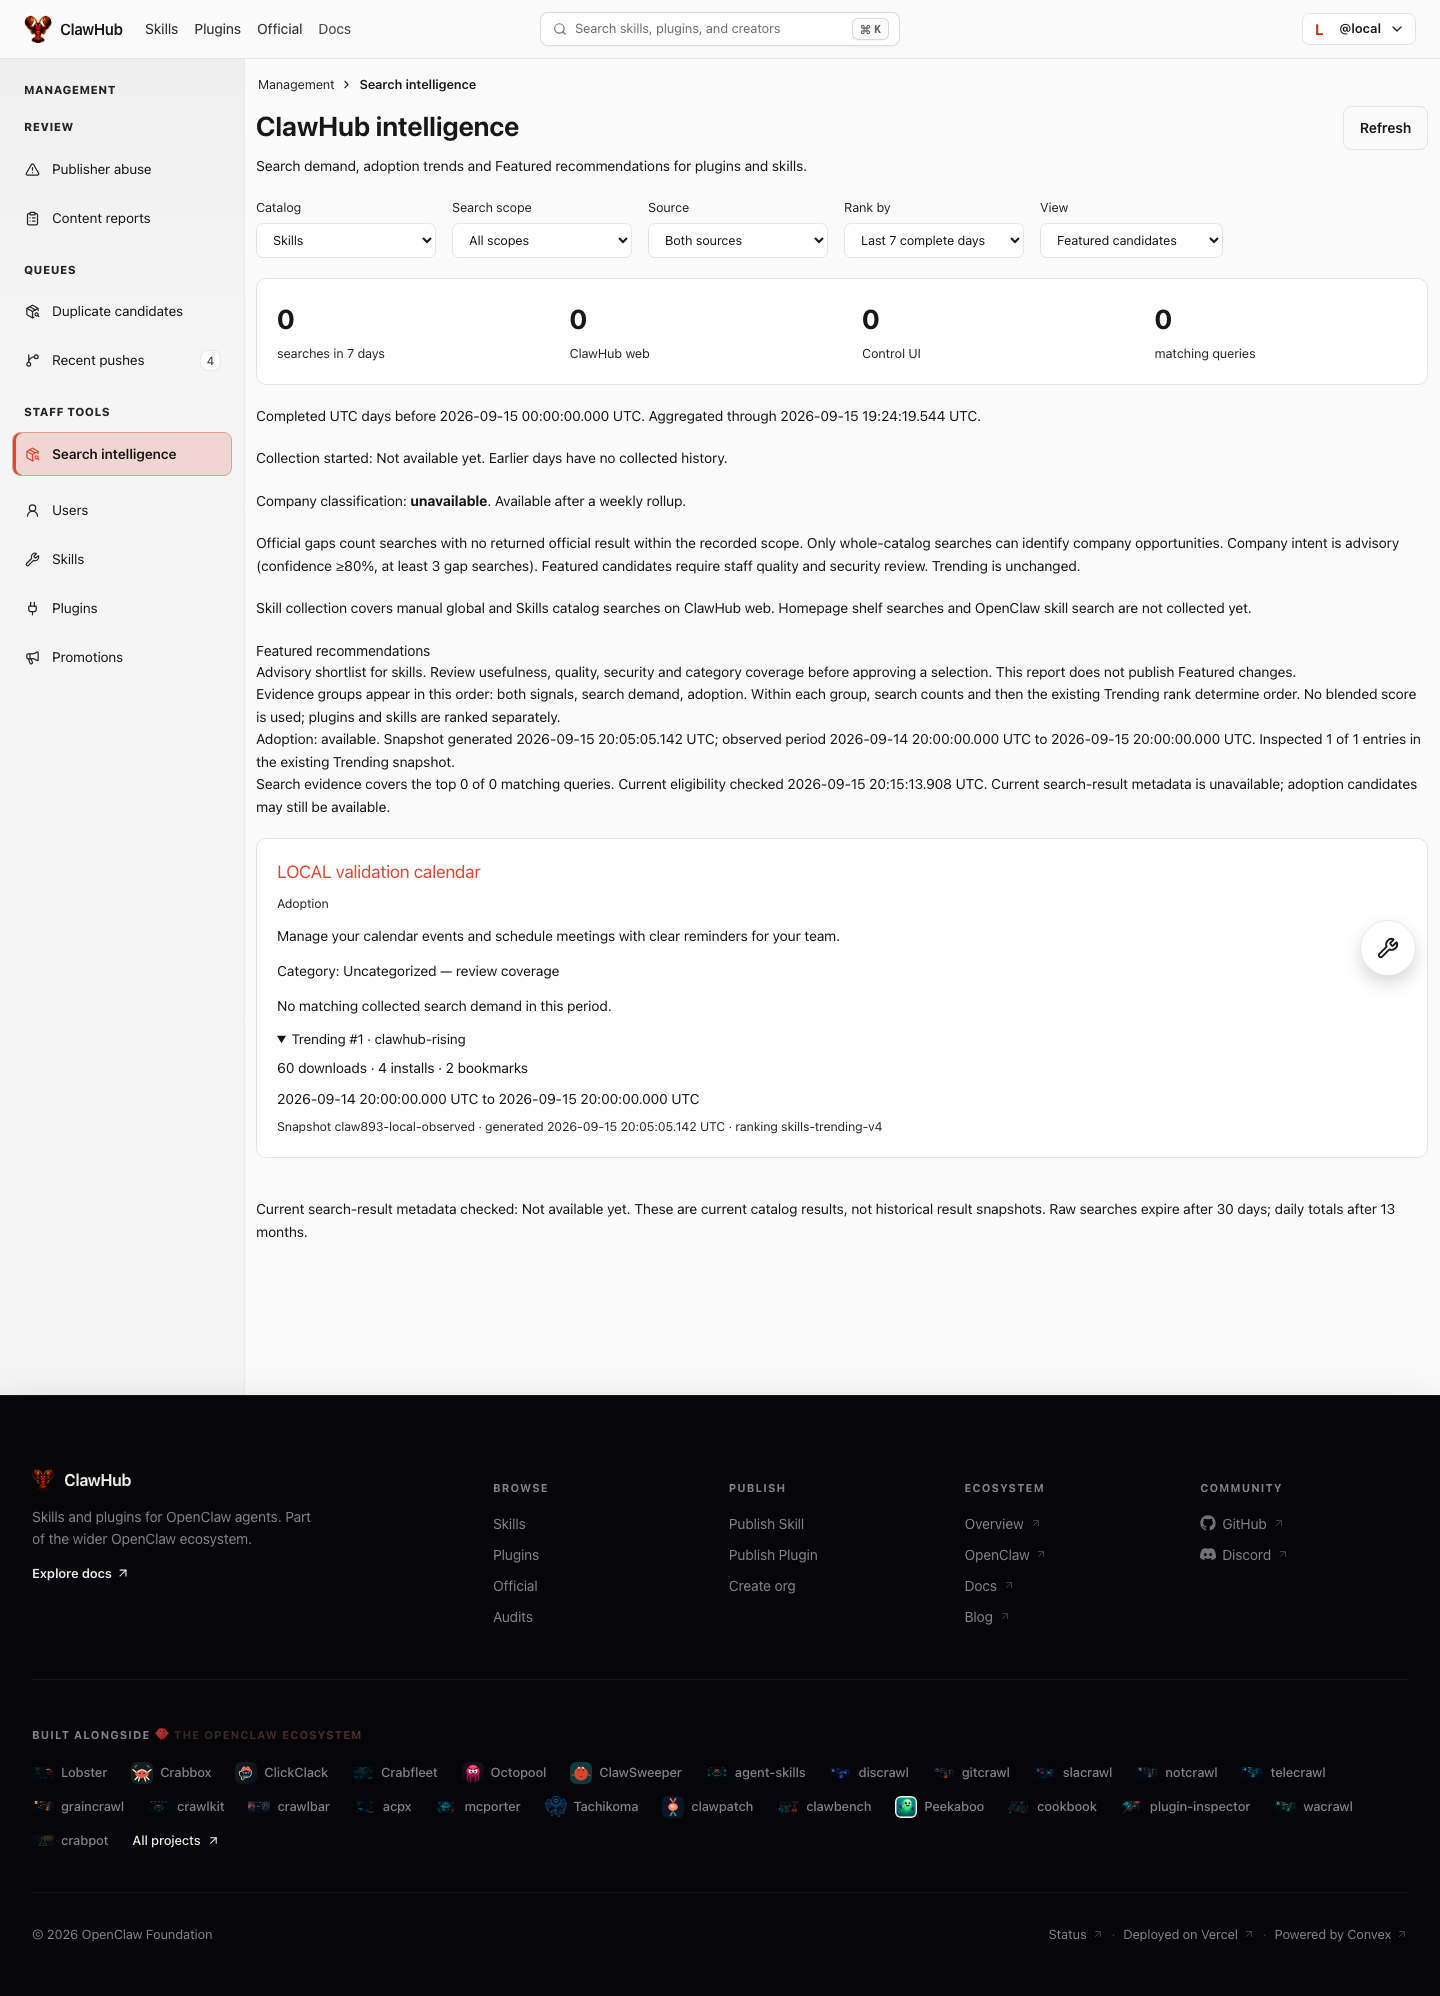
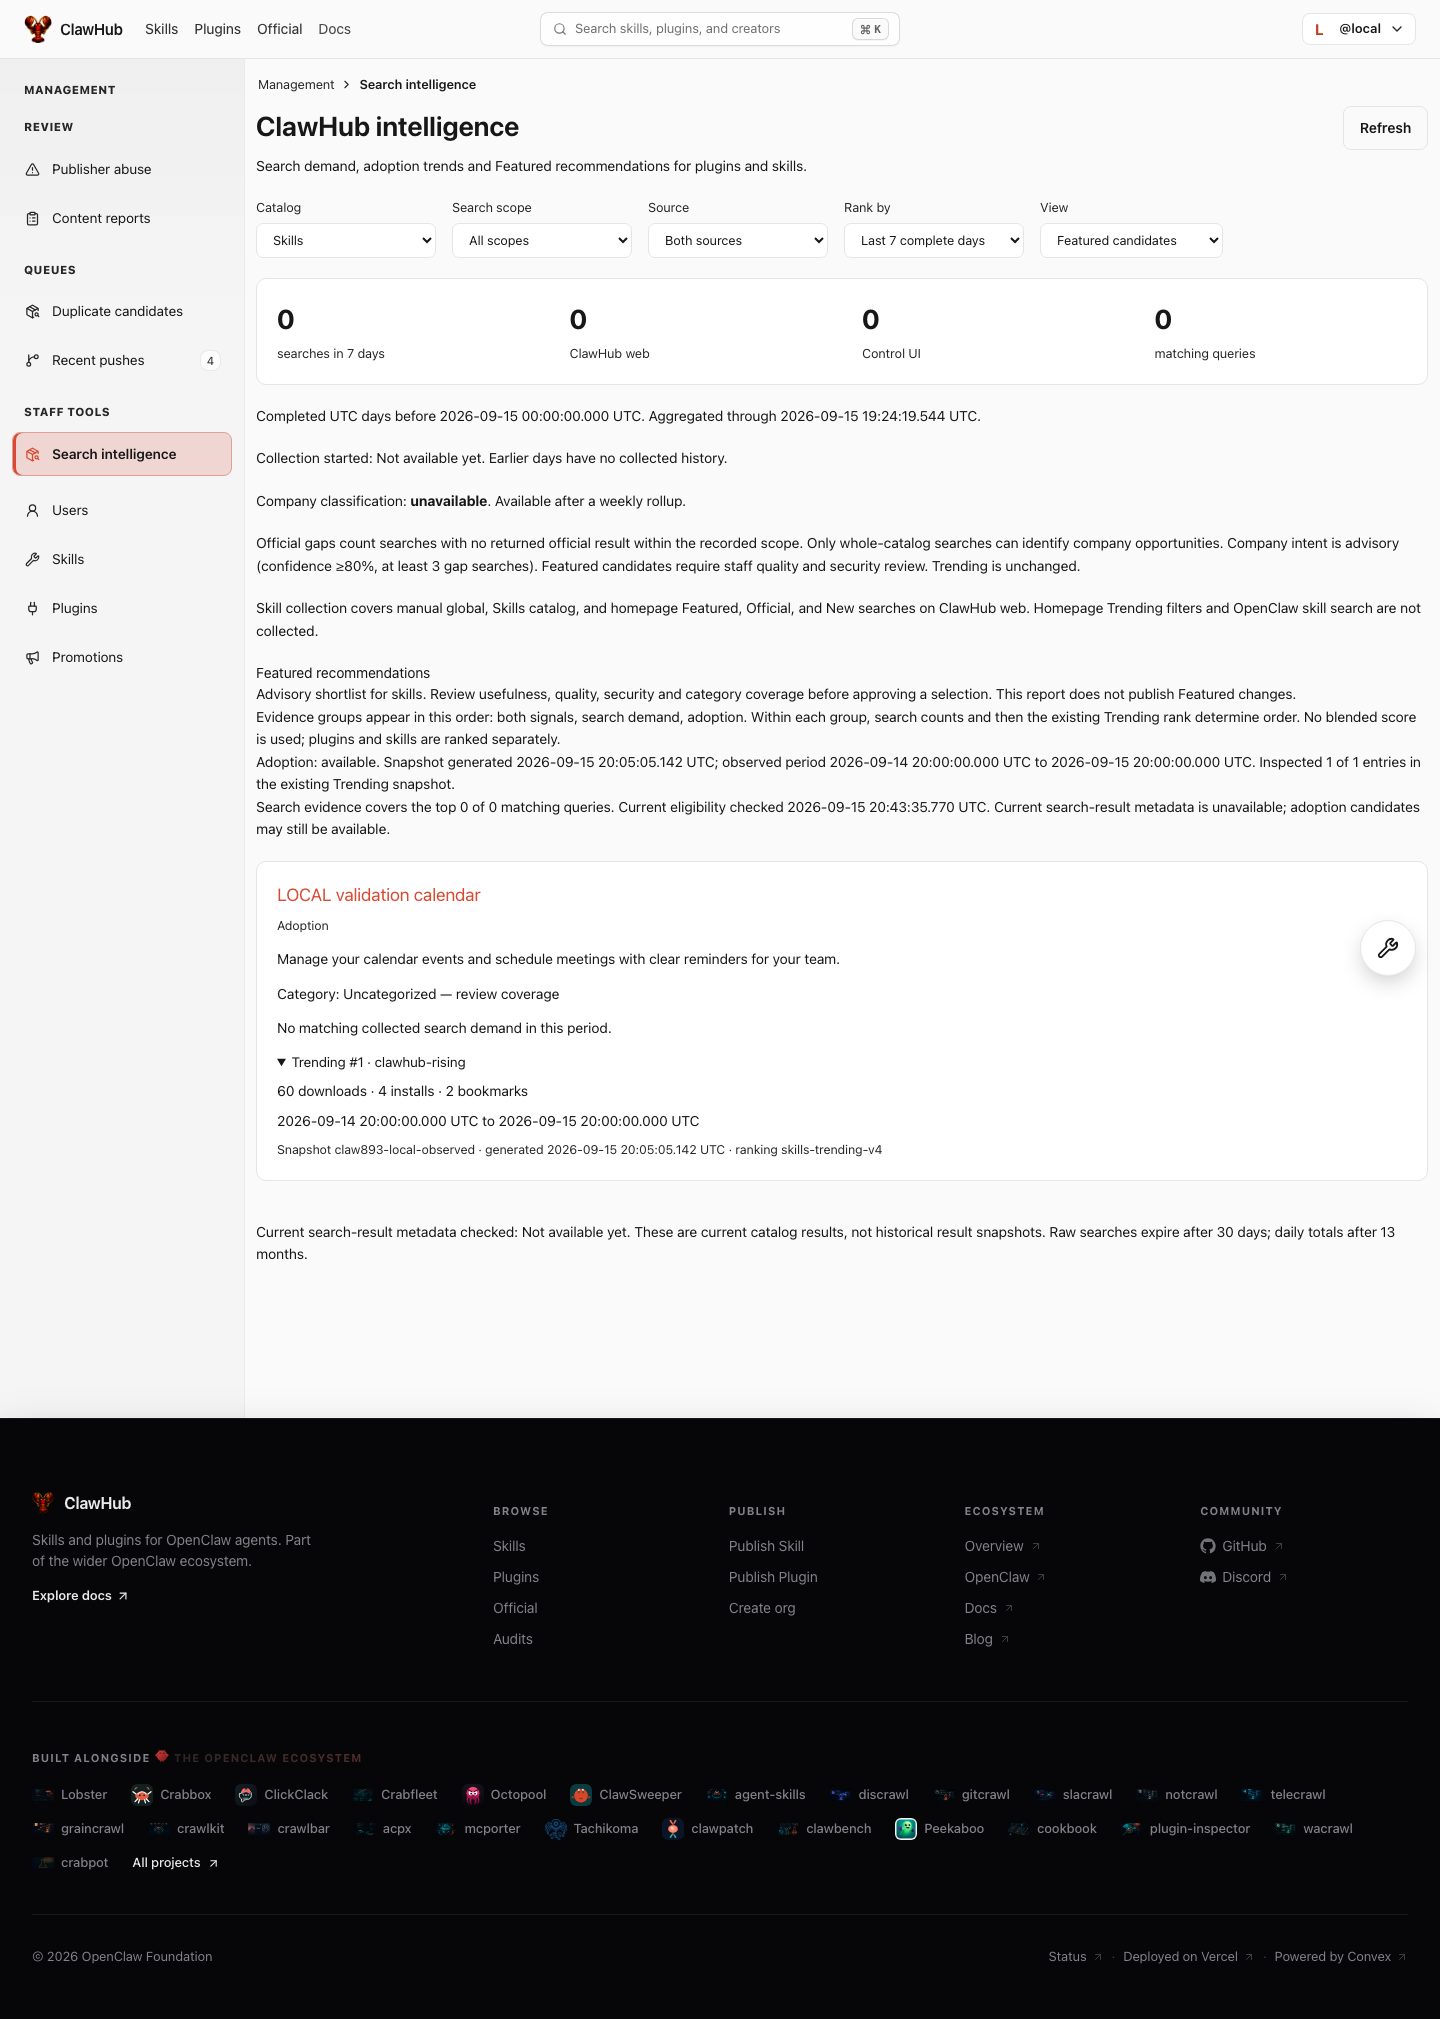
qa: publish ClawHub UI proof for clawhub-ui-proof/pr-3717/search-and-adoption-evidence

diff --git a/clawhub-ui-proof/pr-3717/search-and-adoption-evidence/report.md b/clawhub-ui-proof/pr-3717/search-and-adoption-evidence/report.md
@@ -7,3 +7,5 @@ Original search dashboard is included as baseline/dashboard.png. The old dashboa
 Candidate backend was deployed from5e15835dd0;2347a08288 has identical recommendation production code plus contract documentation. Screenshots inspect real DOM with actual authenticated Convex responses, not response mocks. The real HTTP/admin CLI proof also matched both catalogs and preserved19 observations, zero weekly digest rows,26 plugin badges, and one skill badge. No production query, Featured mutation, or Discord send occurred.
 
 Source binding: every changed production/test/generated file in PR3717 has identical git blob IDs between proof revision `5e15835dd0951426bd466d8146ed5906d5ea5f3b` and reviewed revision `2347a082880667450c7f6558bba88713f4175b02`. Only the four existing specs differ (documentation alignment). Full blob comparison is in summary.json.
+
+Current screenshot capture: a8e18d8023f410ac551ebcb084199345b985da65 after integration of homepage collection3716. The recommendation backend files remain byte-identical to the recorded real proof; dashboard copy now correctly includes homepage Featured/Official/New skill searches and excludes local Trending filters/OpenClaw skill search.
